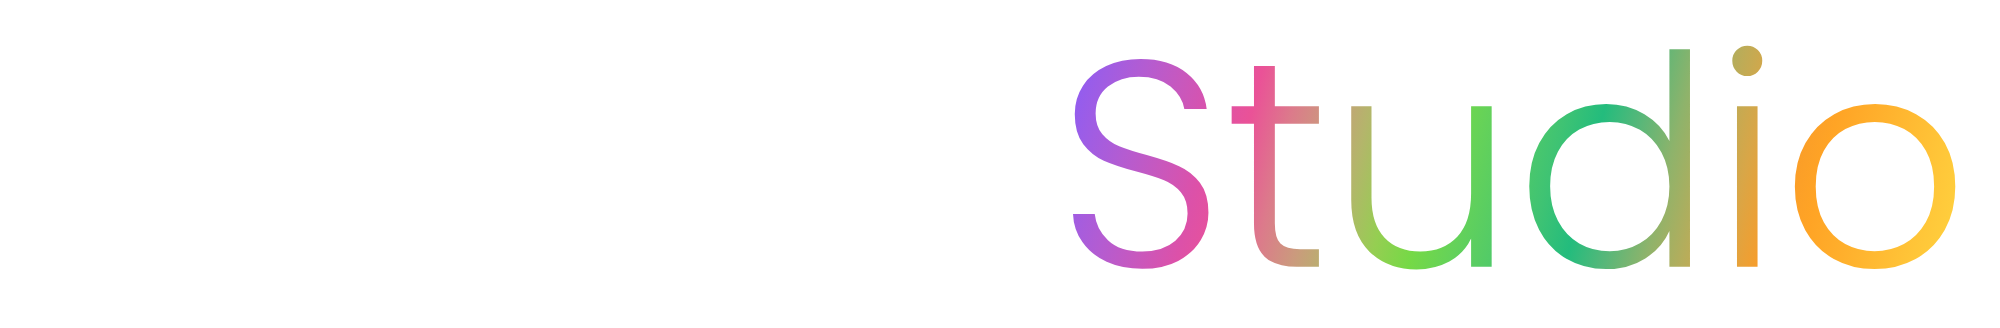
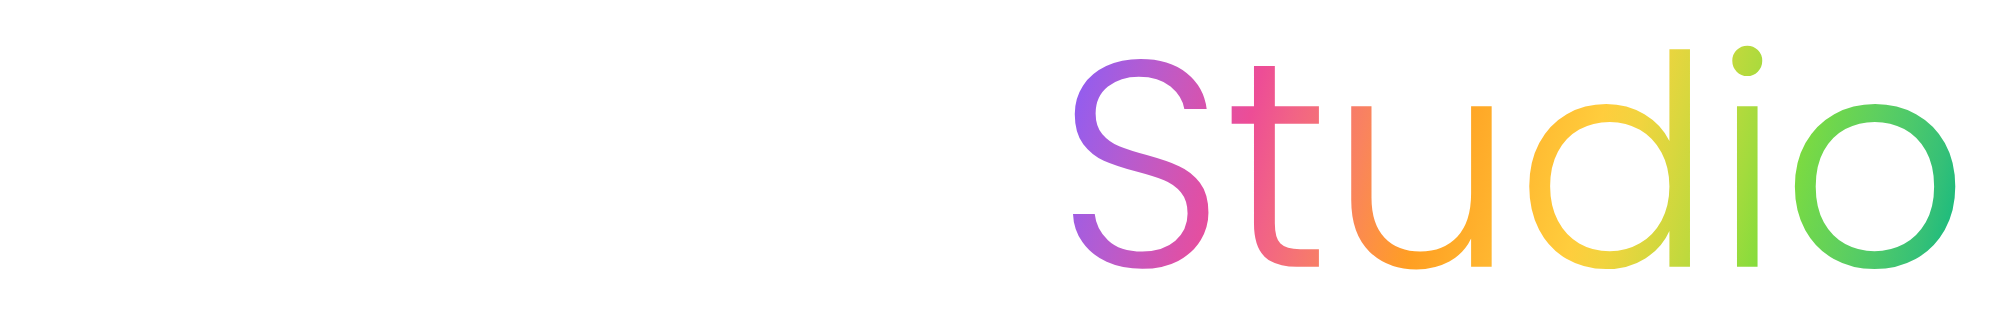
Studio wordmark: spectrum order fade (purple→pink→orange→yellow→lime→emerald)
Claude-Session: https://claude.ai/code/session_01YJ1z4vHF3XLVwcpzAtDnW9

Changed region(s): [[0.62, 0.1524, 0.992, 0.8232]]

diff --git a/.github/tools/brand_wordmarks.py b/.github/tools/brand_wordmarks.py
@@ -25,10 +25,10 @@ def word(txt):
         if bp.bounds: a,b,c,e=bp.bounds; xmin=min(xmin,a);ymin=min(ymin,b);xmax=max(xmax,c);ymax=max(ymax,e)
         x+=hm[gn][0]*sc
     return d,(xmin,ymin,xmax,ymax)
-# SPECTRUM = all three brand gradients in one smooth diagonal fade (owner 28 Nov): Digital purple→pink, Graphics lime→emerald, Marketing orange→yellow, mixed in OKLab so the joins stay clean
+# SPECTRUM = all three brand gradients in one smooth diagonal fade (owner 28 Nov, spectrum order picked): purple→pink→orange→yellow→lime→emerald, mixed in OKLab so the joins stay clean
 def spec(n=24):
   import math
-  C=['#8b5cf6','#ec4899','#7bdc3c','#10b981','#ff9a1f','#ffd23f']
+  C=['#8b5cf6','#ec4899','#ff9a1f','#ffd23f','#7bdc3c','#10b981']
   def lin(c): c/=255; return c/12.92 if c<=.04045 else ((c+.055)/1.055)**2.4
   def dl(c): return 255*(12.92*c if c<=.0031308 else 1.055*c**(1/2.4)-.055)
   def tolab(h):

diff --git a/CLAUDE.md b/CLAUDE.md
@@ -9,7 +9,7 @@ Owner: Summar (SMR Graphics / SMR Digital / SMR Plates, Luton). He edits the sit
 - Dark theme, mobile-first. Brand gradient: Graphics lime→emerald (#7bdc3c→#10b981, owner 28 Nov; was blue→purple), Digital purple→pink, Marketing pink→orange, Plates yellow→orange. Fonts: Sora (headings), Manrope (body), Poppins light (logo word). Logo = white SMR mark with the brand word beside it in the brand gradient (header: Digital/Graphics/Marketing/Plates, slides to the new word on tab switch; intro splash: mark + Digital → Graphics → Marketing in each gradient).
 
 ## Brand wordmarks: the g must never be cut off (owner rule, 22 Nov)
-- Ready-made logos in `assets/brand/`: smr-digital / smr-graphics / smr-marketing / smr-plates / smr-player / smr-studio / smr-printing (lime→emerald, like Graphics), each as `.svg` (white mark, for dark backgrounds), `-dark.svg` (black mark, for light backgrounds) and a 2000px transparent `.png` of each. The word is outlined Poppins Light in its brand gradient with the full descender inside the picture, so the g in Digital, Graphics, Marketing and Player can't be clipped. Live: smrgraphics.co.uk/assets/brand/smr-digital.svg etc. The capital letter (D, G, M, P) is centred exactly on the SMR mark's centre line, and every picture has clear space round the tallest letter and the g/p/y tails. Studio (umbrella brand SMR Studio, owner 28 Nov) fades through all three brand gradients in one smooth diagonal: purple→pink→lime→emerald→orange→yellow (SPECTRUM in brand_wordmarks.py, mixed in OKLab); use it wherever "Studio" appears. Bars version smr-studio-bars(.svg/-dark.svg/.png/-dark.png) (owner 28 Nov): white/black "Studio" with the three brand gradient bars under it; the S top is level with the SMR mark top and the bars' bottom with the mark bottom (.github/tools/brand_studio_bars.py). Rebuild with .github/tools/brand_wordmarks.py (fontTools over Poppins-Light.ttf + assets/smr-mark.svg) if a word is added.
+- Ready-made logos in `assets/brand/`: smr-digital / smr-graphics / smr-marketing / smr-plates / smr-player / smr-studio / smr-printing (lime→emerald, like Graphics), each as `.svg` (white mark, for dark backgrounds), `-dark.svg` (black mark, for light backgrounds) and a 2000px transparent `.png` of each. The word is outlined Poppins Light in its brand gradient with the full descender inside the picture, so the g in Digital, Graphics, Marketing and Player can't be clipped. Live: smrgraphics.co.uk/assets/brand/smr-digital.svg etc. The capital letter (D, G, M, P) is centred exactly on the SMR mark's centre line, and every picture has clear space round the tallest letter and the g/p/y tails. Studio (umbrella brand SMR Studio, owner 28 Nov) fades through all three brand gradients in one smooth diagonal in spectrum order (owner picked 28 Nov): purple→pink→orange→yellow→lime→emerald (SPECTRUM in brand_wordmarks.py, mixed in OKLab); use it wherever "Studio" appears. Bars version smr-studio-bars(.svg/-dark.svg/.png/-dark.png) (owner 28 Nov): white/black "Studio" with the three brand gradient bars under it; the S top is level with the SMR mark top and the bars' bottom with the mark bottom (.github/tools/brand_studio_bars.py). Rebuild with .github/tools/brand_wordmarks.py (fontTools over Poppins-Light.ttf + assets/smr-mark.svg) if a word is added.
 - In any page, graphic, video or document (any chat), use these files instead of typing "SMR Digital" etc. as live text. If the word must be live text (an animation), use line-height ≥ 1.3, never overflow:hidden or a tight box round it without padding-bottom ≥ .15em, and check a screenshot zoomed in on the g before publishing. Never clip a background-clip:text word with line-height:1.
 
 ## Badge animation
